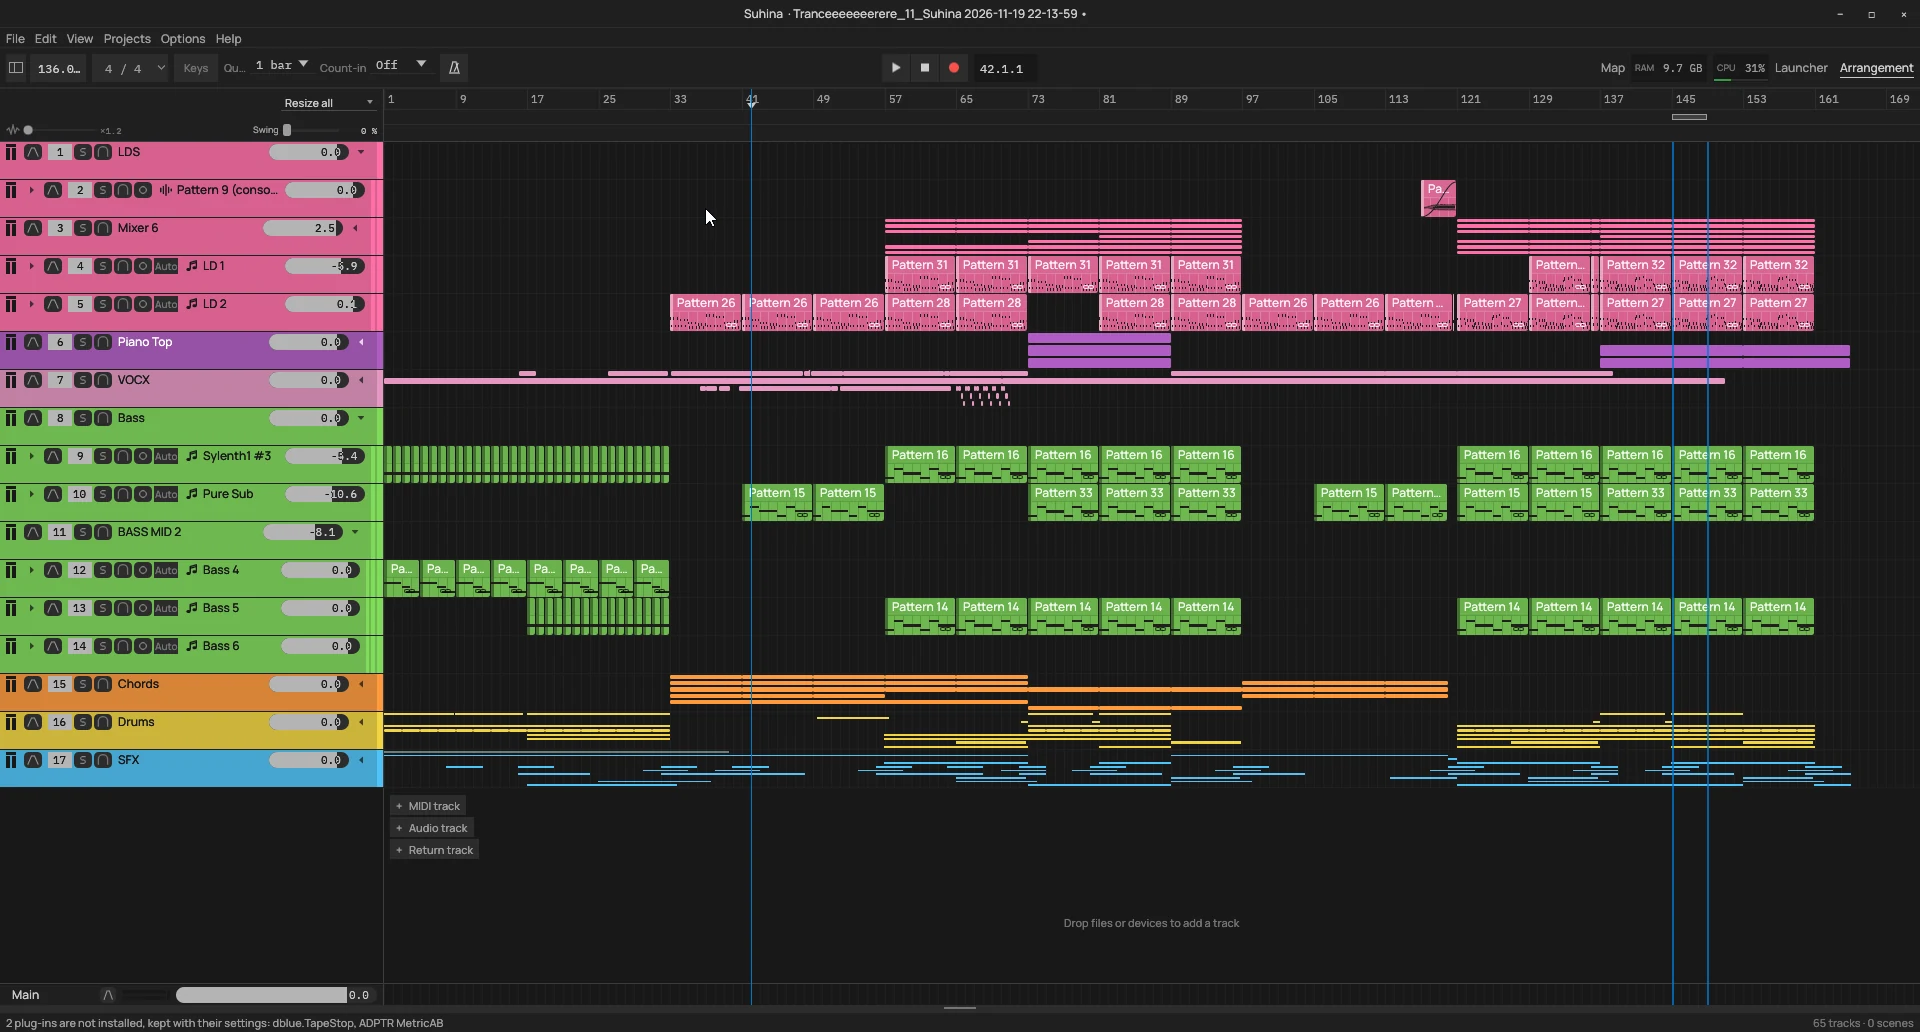
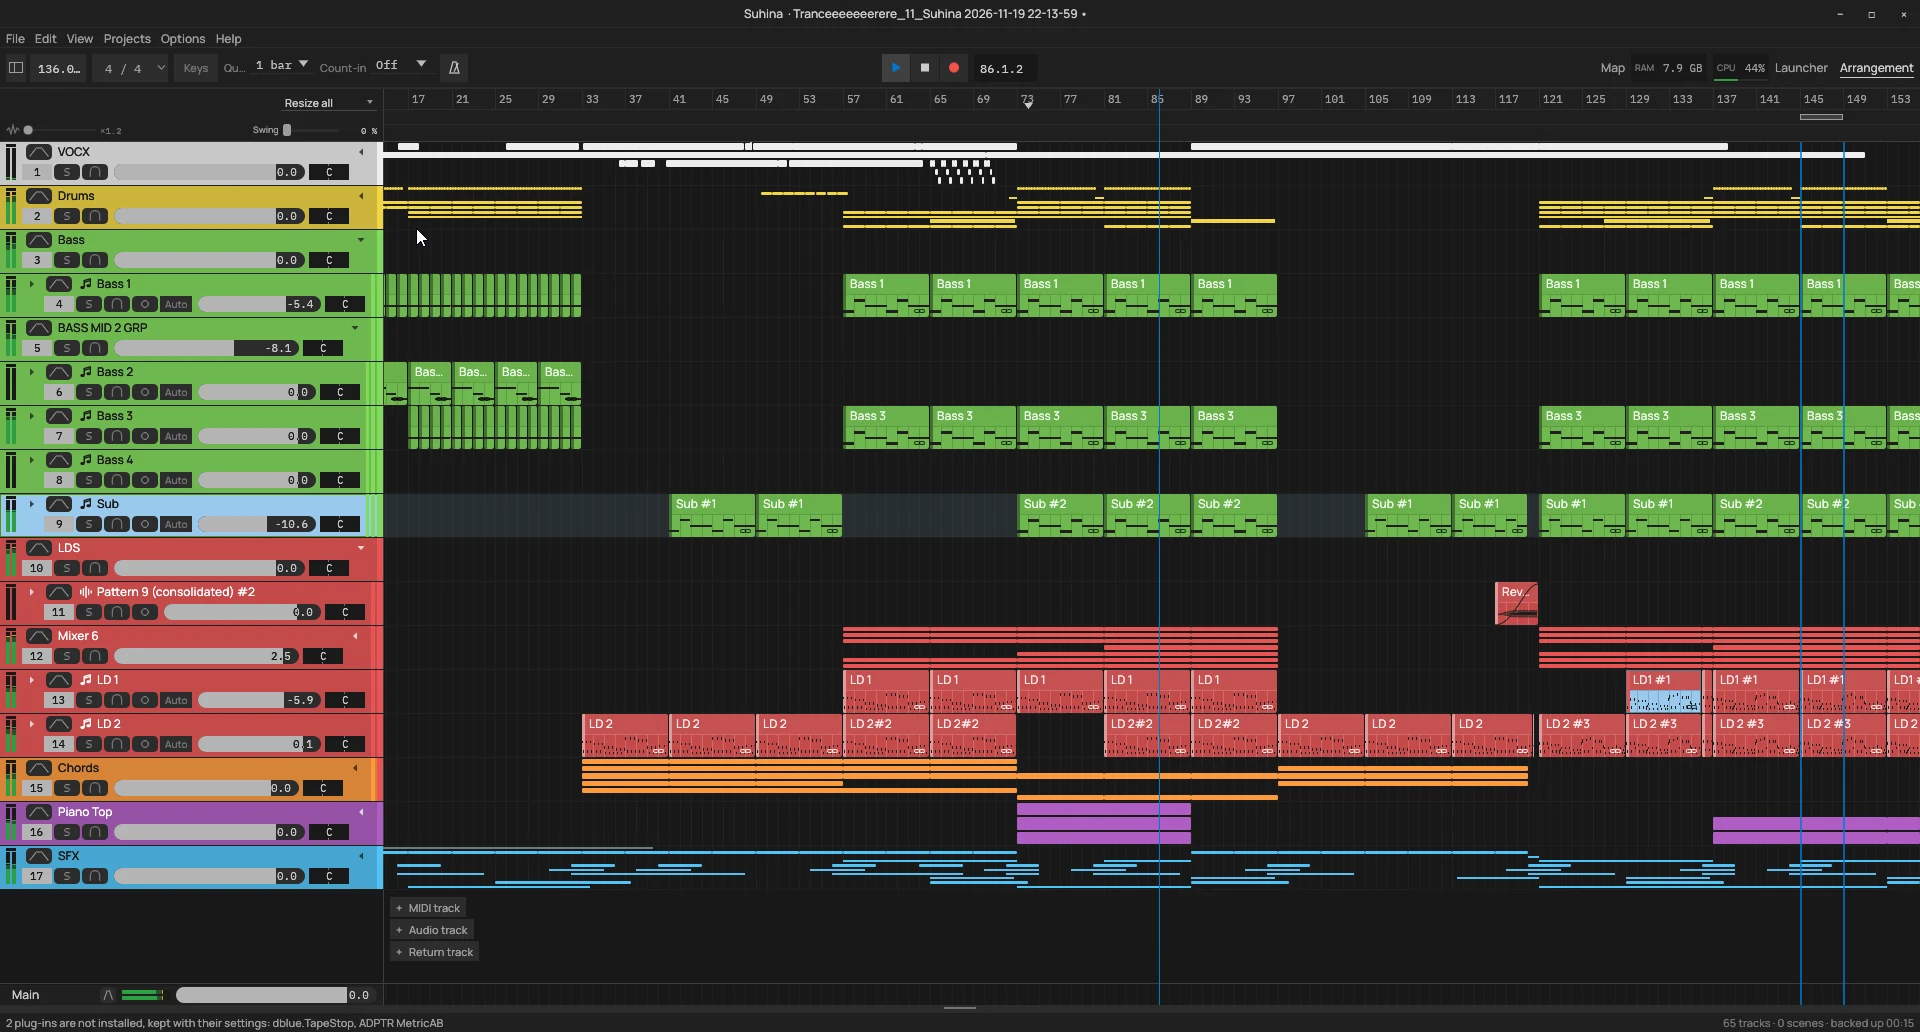
Home: text-only plug-ins and import chapters, and a new hero capture
The Plug-in manager and Missing files pictures leave the plug-ins and
import chapters, which stay text only as before, with their image
files and styles. The hero is a newer capture of the seventeen-track
Arrangement, its alt text naming MIDI and audio clips.

diff --git a/src/components/ProductHome.vue b/src/components/ProductHome.vue
@@ -14,7 +14,7 @@ const base = import.meta.env.BASE_URL
   <div class="product-home">
     <section id="home">
       <figure class="hero-media">
-        <AppShot name="suhina-project" alt="A song of seventeen tracks in Suhina's Arrangement: pattern clips and audio in colored track groups along the timeline" sizes="100vw" :width="1920" :height="1032" eager />
+        <AppShot name="suhina-project" alt="A song of seventeen tracks in Suhina's Arrangement: MIDI and audio clips in colored track groups along the timeline" sizes="100vw" :width="1920" :height="1032" eager />
       </figure>
       <div class="hero-top">
         <h1>Make music<br>in the <span class="wave">open.<svg viewBox="0 0 300 64" preserveAspectRatio="none" aria-hidden="true"><path d="M0 36C38 6 82 0 122 22c42 23 88 30 178 2-78 46-150 48-192 20C74 22 42 22 0 36Z"/></svg></span></h1>
@@ -66,16 +66,10 @@ const base = import.meta.env.BASE_URL
 
     <HomeChapter id="plug-ins" title="Bring your plug-ins along." ruled>
       <p>Use CLAP, VST3 and VST2 instruments and effects in a separate plug-in host. Supported plug-ins receive the song's tempo and playback position.</p><p class="note">Experimental ARA support lets compatible editors work with Arrangement audio clips. Compatibility and the wider ARA workflow are still being developed.</p>
-      <template #after>
-      <figure class="section-shot"><AppShot name="suhina-plugin-manager" alt="Suhina's Plug-in manager: scanned plug-ins filtered by type, format and vendor, each with its version and whether it is enabled" :width="1176" :height="762" sizes="(min-width: 1000px) 58vw, 100vw" /><figcaption>The Plug-in manager scans your plug-in folders. Filter by type, format or vendor and choose which ones Suhina offers.</figcaption></figure>
-      </template>
     </HomeChapter>
 
     <HomeChapter id="import" title="A new place for an old project.">
       <p>Open existing .als and .flp projects, bring in audio and MIDI, and save your work in Suhina's own project format.</p><p class="note">DAWproject files come next. Project import is evolving. Not every imported device or feature is reproduced; what was left out is named in the import's warnings. Try your material and tell us what needs work.</p>
-      <template #after>
-      <figure class="section-shot"><AppShot name="suhina-missing-files" alt="Suhina's Missing files window: the samples a project could not find, with a folder to search and a Locate button for each one" :width="1920" :height="1032" sizes="(min-width: 1000px) 58vw, 100vw" /><figcaption>Samples moved since the project was saved? Search a folder or locate each file, and Suhina relinks them.</figcaption></figure>
-      </template>
     </HomeChapter>
 
     <HomeChapter id="progress" title="Built in public. Counted in public." ruled>
@@ -120,10 +114,6 @@ const base = import.meta.env.BASE_URL
 .hero-media img { width: 100%; max-height: 52vh; object-fit: cover; object-position: top; }
 .command code { display: block; font-size: clamp(18px, 3.2vw, 44px); letter-spacing: -.02em; overflow-wrap: anywhere; }
 
-.section-shot { grid-column: 2 / -1; margin: clamp(8px, 2vw, 24px) 0 0; }
-.section-shot img { border: 1px solid var(--line); }
-.section-shot figcaption { margin-top: 12px; font-size: 14px; color: var(--olive); }
-
 .rows { grid-column: 1 / -1; margin: 0; padding: 0; list-style: none; }
 .item-list { display: grid; grid-template-columns: repeat(auto-fill, minmax(260px, 1fr)); gap: 0 var(--gutter); }
 .item-list li { padding: 16px 0 20px; border-top: 1px solid var(--line); }
@@ -148,7 +138,6 @@ const base = import.meta.env.BASE_URL
   .product-home { --cols: minmax(0, 1fr) minmax(0, 1fr) 0; }
   .download-notes { grid-template-columns: 1fr; gap: 0; }
 }
-@media (max-width: 720px) { .section-shot { grid-column: 1 / -1; } }
 @media (max-width: 720px) {
   .hero-top, .platforms a { grid-template-columns: 1fr; }
   .hero-top { gap: 24px; }

diff --git a/docs/product-homepage.md b/docs/product-homepage.md
@@ -102,10 +102,8 @@ Added with the redesign and checked against DAW main on 2026-11-13; recheck befo
   names from the projects that were open.
 - Pictures replaced and added on 2026-11-24 from captures the contributor supplied, the same ones
   the DAW README shows (suhina-daw#1702): the hero (`suhina-project`, now a seventeen-track
-  Arrangement), two theme slides (`suhina-theme-light`, `suhina-theme-settings`), the Plug-in
-  manager in the plug-ins chapter (`suhina-plugin-manager`) and the Missing files window in the
-  import chapter (`suhina-missing-files`, the user name in its paths hidden). They show
-  third-party plug-in names.
+  Arrangement) and two theme slides (`suhina-theme-light`, `suhina-theme-settings`). The plug-ins
+  and import chapters stay text only. The hero shows third-party plug-in names.
 - Progress: the chapter links to `suhina-daw/suhina-status`, where a bot redraws the status
   figure daily, so no number is written here. The wall of screenshots beside it is decoration
   made of the pictures above.
